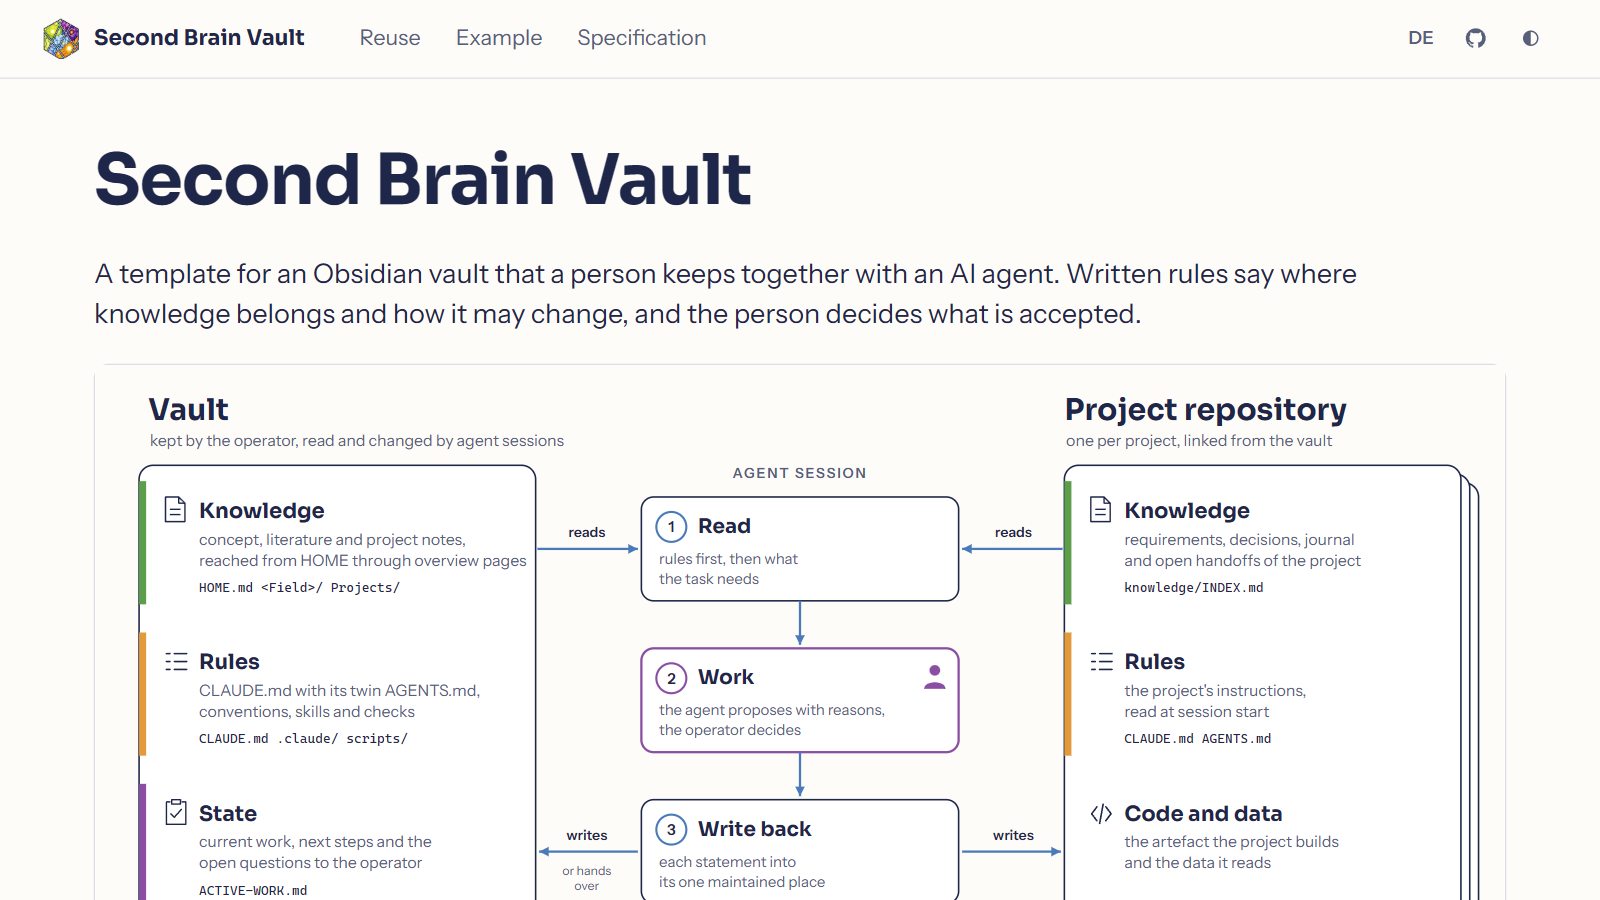
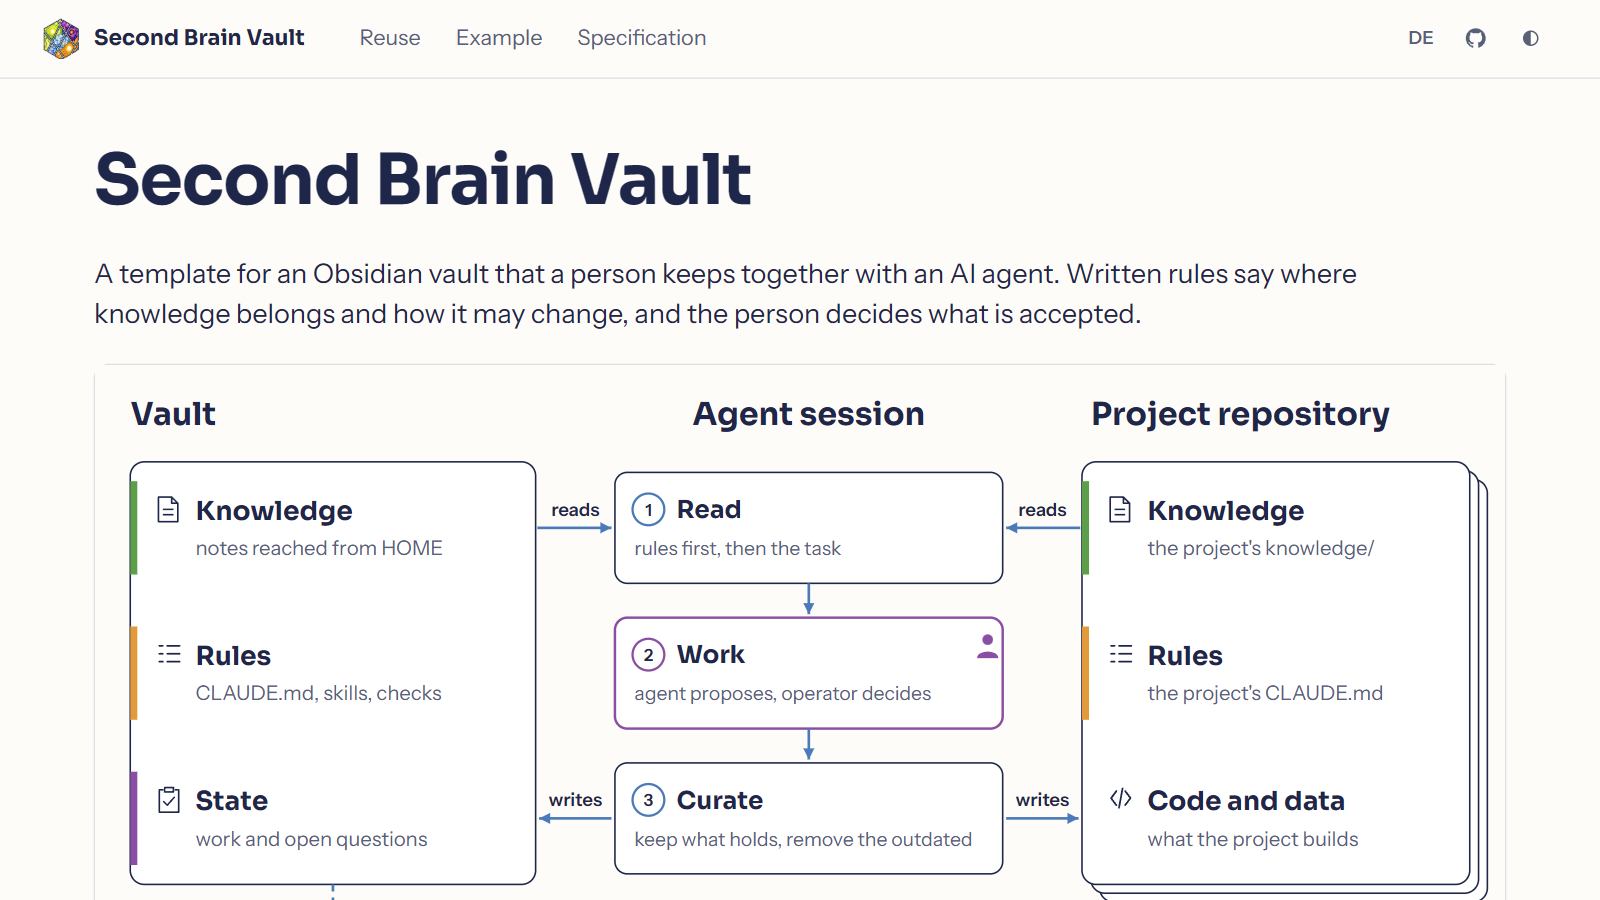
Reduce the main figure to titles and one line per block, add a German version and name the closing step curate

Changed region(s): [[0.0625, 0.4356, 0.9375, 1.0], [0.6562, 0.4356, 0.9062, 0.5289], [0.9062, 0.5289, 0.9375, 0.56]]

diff --git a/docs/content.js b/docs/content.js
@@ -17,9 +17,10 @@ export const PAGE_DE = {
   "head.repo": "Repository auf GitHub",
   "intro.abstract": "Eine Vorlage für einen Obsidian-Vault, den eine Person gemeinsam mit einem KI-Agenten führt. Geschriebene Regeln sagen, wohin Wissen gehört und wie es sich ändern darf, und die Person entscheidet, was angenommen wird.",
   "figure.label": "Hauptgrafik",
-  "figure.alt": "Der Vault hält Wissen, Regeln und Stand. Eine Agentensitzung liest aus dem Vault und aus einem Projekt-Repository, arbeitet, während der Operator entscheidet, und schreibt zurück. Ein Projekt-Repository hält eigenes Wissen, eigene Regeln, Code und Daten, und das Repo Directory verbindet beide. Die Beschriftung der Grafik ist englisch.",
-  "intro.p1": `Der Vault ist ein Ordner verlinkter Markdown-Notizen, den der Operator, die Person, die ihn führt, mit einem KI-Agenten in <a href="https://obsidian.md">Obsidian</a> pflegt. Sein Wissen besteht aus Begriffs-, Literatur- und Projektnotizen, jede Aussage an einem Ort und von HOME aus erreichbar. Seine Regeln beginnen mit <a href="${GH}/blob/main/CLAUDE.md">CLAUDE.md</a> und der daraus erzeugten AGENTS.md und setzen sich in Konventionen, <a href="${GH}/tree/main/.claude/skills">Skills</a> für wiederkehrende Arbeit und Prüfungen fort, die einen Commit gegen eine harte Regel ablehnen. Sein Stand ist ACTIVE-WORK, der eine Ort für laufende Arbeit und die offenen Fragen an den Operator.`,
-  "intro.p2": `Eine Agentensitzung liest zuerst die Regeln und dann, was die Aufgabe braucht, arbeitet, indem der Agent mit Gründen vorschlägt und der Operator entscheidet, und schreibt jede Aussage an ihren einen Ort zurück. Ein Projekt-Repository hält sein eigenes Wissen im Ordner <code>knowledge/</code>, wie <a href="https://github.com/DigitalHumanitiesCraft/Promptotyping">Promptotyping</a> es beschreibt, und das Repo Directory verbindet jede Projektübersicht des Vaults damit. Eine Sitzung im Repository liest den Vault, ohne in ihn zu schreiben, und übergibt einen Befund für den Vault, den eine Vault-Sitzung nach der Annahme einträgt.`,
+  "figure.src": "images/second-brain-figure-de.svg",
+  "figure.alt": "Der Vault hält Wissen, Regeln und Stand. Eine Agentensitzung liest aus dem Vault und aus einem Projekt-Repository, arbeitet, indem der Agent vorschlägt und der Operator entscheidet, und kuratiert. Ein Projekt-Repository hält eigenes Wissen, eigene Regeln, Code und Daten, und das Repo Directory verbindet jedes Projekt mit seinem Wissensordner.",
+  "intro.p1": `Der Vault ist ein Ordner verlinkter Markdown-Notizen, den der Operator, die Person, die ihn führt, mit einem KI-Agenten in <a href="https://obsidian.md">Obsidian</a> pflegt. Sein Wissen besteht aus Begriffs-, Literatur- und Projektnotizen, jede Aussage an einem Ort und von HOME.md aus erreichbar. Seine Regeln beginnen mit <a href="${GH}/blob/main/CLAUDE.md">CLAUDE.md</a> und der daraus erzeugten AGENTS.md und setzen sich in Konventionen, <a href="${GH}/tree/main/.claude/skills">Skills</a> für wiederkehrende Arbeit und Prüfungen fort, die einen Commit gegen eine harte Regel ablehnen. Sein Stand ist ACTIVE-WORK.md, der eine Ort für laufende Arbeit und die offenen Fragen an den Operator.`,
+  "intro.p2": `Eine Agentensitzung liest zuerst die Regeln und dann, was die Aufgabe braucht, arbeitet, indem der Agent mit Gründen vorschlägt und der Operator entscheidet, und kuratiert. Kuratieren hält angenommenes Wissen an dem einen Ort fest, an dem es gilt, berichtigt oder entfernt Aussagen, die überholt sind, und lässt, was nur für ein Projekt gilt, in diesem Projekt. Ein Projekt-Repository hält sein eigenes Wissen im Ordner <code>knowledge/</code>, erreichbar über <code>knowledge/INDEX.md</code>, wie <a href="https://github.com/DigitalHumanitiesCraft/Promptotyping">Promptotyping</a> es beschreibt, und das Repo Directory verbindet jede Projektübersicht des Vaults damit. Eine Sitzung im Repository liest den Vault, ohne in ihn zu schreiben, und übergibt einen Befund für den Vault, den eine Vault-Sitzung nach der Annahme einträgt.`,
   "intro.p3": `Die Vorlage abstrahiert die Struktur des eigenen Forschungs-Vaults des Autors und enthält nur synthetische Notizen. Das Manuskript <a href="${GH}/blob/main/knowledge/paper.md">Second Brain as a Personal Research Environment for Working with AI Agents</a> entwickelt den Ansatz, <a href="https://github.com/DigitalHumanitiesCraft/research-mission-control">Research Mission Control</a> koordiniert mehrere solcher Sitzungen, und <a href="https://github.com/DigitalHumanitiesCraft/grounded-vault">Grounded Vault</a> führt Aussagen bis zur genauen Quellstelle zurück.`,
   "reuse.title": "Nachnutzen",
   "reuse.needs": "Nötig sind Obsidian, Claude Code oder Codex mit bezahltem Plan oder Konto, Git und Python ab 3.11.",

diff --git a/docs/index.html b/docs/index.html
@@ -48,11 +48,11 @@
   <h1>Second Brain Vault</h1>
   <p class="lead" data-t="intro.abstract">A template for an Obsidian vault that a person keeps together with an AI agent. Written rules say where knowledge belongs and how it may change, and the person decides what is accepted.</p>
   <figure class="main-figure" tabindex="0" aria-label="Main figure" data-t-label="figure.label">
-    <img src="images/second-brain-figure.svg" width="1600" height="760" data-t-alt="figure.alt" alt="The vault holds knowledge, rules and state. An agent session reads from the vault and from a project repository, works with the operator deciding, and writes back. A project repository holds its own knowledge, rules, code and data, and the Repo Directory links the two.">
+    <img src="images/second-brain-figure.svg" data-t-src="figure.src" width="1600" height="700" data-t-alt="figure.alt" alt="The vault holds knowledge, rules and state. An agent session reads from the vault and from a project repository, works with the agent proposing and the operator deciding, and curates. A project repository holds its own knowledge, rules, code and data, and the Repo Directory links each project to its knowledge folder.">
   </figure>
   <div class="prose-intro">
-    <p data-t="intro.p1">The vault is a folder of linked Markdown notes that the operator, the person who keeps it, maintains with an AI agent in <a href="https://obsidian.md">Obsidian</a>. Its knowledge consists of concept, literature and project notes, each statement in one place and reachable from HOME. Its rules begin with <a href="https://github.com/chpollin/second-brain-vault/blob/main/CLAUDE.md">CLAUDE.md</a> and the generated AGENTS.md, and go on in conventions, <a href="https://github.com/chpollin/second-brain-vault/tree/main/.claude/skills">skills</a> for recurring work and checks that refuse a commit breaking a hard rule. Its state is ACTIVE-WORK, the one place for current work and the open questions to the operator.</p>
-    <p data-t="intro.p2">An agent session reads the rules first and then what the task needs, works by proposing with reasons while the operator decides, and writes each statement back into its one place. A project repository keeps its own knowledge in the folder <code>knowledge/</code>, as <a href="https://github.com/DigitalHumanitiesCraft/Promptotyping">Promptotyping</a> describes, and the Repo Directory links each Project Overview of the vault to it. A session in a repository reads the vault without writing to it and hands over a finding for the vault, which a vault session enters once it is accepted.</p>
+    <p data-t="intro.p1">The vault is a folder of linked Markdown notes that the operator, the person who keeps it, maintains with an AI agent in <a href="https://obsidian.md">Obsidian</a>. Its knowledge consists of concept, literature and project notes, each statement in one place and reachable from HOME.md. Its rules begin with <a href="https://github.com/chpollin/second-brain-vault/blob/main/CLAUDE.md">CLAUDE.md</a> and the generated AGENTS.md, and go on in conventions, <a href="https://github.com/chpollin/second-brain-vault/tree/main/.claude/skills">skills</a> for recurring work and checks that refuse a commit breaking a hard rule. Its state is ACTIVE-WORK.md, the one place for current work and the open questions to the operator.</p>
+    <p data-t="intro.p2">An agent session reads the rules first and then what the task needs, works by proposing with reasons while the operator decides, and curates. Curating keeps accepted knowledge in the one place where it applies, corrects or removes statements that have become outdated, and leaves what holds for one project in that project. A project repository keeps its own knowledge in the folder <code>knowledge/</code>, entered through <code>knowledge/INDEX.md</code> as <a href="https://github.com/DigitalHumanitiesCraft/Promptotyping">Promptotyping</a> describes, and the Repo Directory links each Project Overview of the vault to it. A session in a repository reads the vault without writing to it and hands a finding for the vault over, which a vault session enters once it is accepted.</p>
     <p data-t="intro.p3">The template abstracts the structure of the author's own research vault and contains only synthetic notes. The manuscript <a href="https://github.com/chpollin/second-brain-vault/blob/main/knowledge/paper.md">Second Brain as a Personal Research Environment for Working with AI Agents</a> develops the approach, <a href="https://github.com/DigitalHumanitiesCraft/research-mission-control">Research Mission Control</a> coordinates several such sessions, and <a href="https://github.com/DigitalHumanitiesCraft/grounded-vault">Grounded Vault</a> traces claims to an exact source passage.</p>
   </div>
 </section>

diff --git a/docs/page.js b/docs/page.js
@@ -43,6 +43,9 @@ function translate() {
   for (const node of document.querySelectorAll("[data-t-label]")) {
     if (node.dataset.tLabel in PAGE_DE) node.setAttribute("aria-label", PAGE_DE[node.dataset.tLabel]);
   }
+  for (const node of document.querySelectorAll("[data-t-src]")) {
+    if (node.dataset.tSrc in PAGE_DE) node.setAttribute("src", PAGE_DE[node.dataset.tSrc]);
+  }
   for (const node of document.querySelectorAll("[data-t-alt]")) {
     if (node.dataset.tAlt in PAGE_DE) node.setAttribute("alt", PAGE_DE[node.dataset.tAlt]);
   }

diff --git a/VAULT-OPERATIONS.md b/VAULT-OPERATIONS.md
@@ -37,7 +37,7 @@ query-topics: [vault-operations, skill-register, glossary, decisions, task-types
 | vault-audit | on call | reports dead links, dead anchors and unreachable documents | `scripts/check_vault.py` |
 | vault-distill | on call | synthesises vault content into an outline, slide input or draft prose and edits nothing | [[HOME]] |
 | vault-orient | on call, outside the vault | opens the vault as a read-only knowledge source for a repository session | [[HOME]], [[Repo Directory]] |
-| project-knowledge | in a repository with a `knowledge/` folder | works from and writes back into the knowledge base of a repository | [[Convention Knowledge Documents]] |
+| project-knowledge | in a repository with a `knowledge/` folder | works from and curates the knowledge base of a repository | [[Convention Knowledge Documents]] |
 | active-work-report | on call | reports the operational state and proposes changes, writes only on instruction | [[Convention ACTIVE-WORK Fields]] |
 | writing-style | before prose is written | prose rules with contrast examples and a self-check | `.claude/rules/documents.md` |
 | persona-init | when a personal profile is requested | builds a readable profile, a working agreement and source provenance through a short dialogue | [[Template Research Persona]] |
@@ -77,6 +77,7 @@ Project knowledge base
 
 | Date | Decision | Reason and history |
 |---|---|---|
+| 2026-11-10 | The closing step of a session is curation: accepted knowledge at the level where it applies, outdated statements corrected or removed | [[Decision Log#2026-11-10 Curation as the closing step of a session]] |
 | 2026-09-20 | Project context follows explicit repository mappings and preserves the scope of transferred findings | [[Decision Log#2026-09-20 Research context across repositories]] |
 | 2026-09-19 | Persona initialisation uses a neutral template and stores personal drafts outside the public explorer | [[Decision Log#2026-09-19 Personal research persona initialisation]] |
 | 2026-09-19 | Skills preserve read-only entry, honor existing update instructions and keep expected test outcomes distinct from observed evidence | [[Decision Log#2026-09-19 Skill evaluation and bounded execution]] |

diff --git a/knowledge/design.md b/knowledge/design.md
@@ -19,7 +19,7 @@ The header carries brand, Reuse, Example and Specification, the language link, t
 
 ## Main figure
 
-The figure is a hand-drawn SVG of 1600 by 760 units with Sora and Instrument Sans embedded as data URIs, so it keeps its type inside `<img>`, in a paper and on a slide. `docs/images/second-brain-figure.png` is its export at double resolution through headless Edge. It stands on a light plate in both schemes. On phones it keeps a legible width and scrolls sideways inside its frame.
+The figure is a hand-drawn SVG of 1600 by 700 units, in English as `docs/images/second-brain-figure.svg` and in German as `second-brain-figure-de.svg`, which the German page loads with Sora and Instrument Sans embedded as data URIs, so it keeps its type inside `<img>`, in a paper and on a slide. Both are exported as PNG at double resolution through headless Edge. Each block carries a title and one line, the columns carry their names only, and every label stays legible at 800 pixels width. File names stand in the prose below the figure. The third step of the session is called curate, because writing back names only the mechanical part. It stands on a light plate in both schemes. On phones it keeps a legible width and scrolls sideways inside its frame.
 
 The vault, the agent session and the project repository take three balanced columns. Knowledge, rules and state fill the vault without empty space, and the repository mirrors knowledge and rules and adds code and data. The colours follow the mark and the roles the Research Mission Control infographic already assigned: blue for reading and writing files, purple for work, decisions and acceptance, which also marks state as the place of the operator's open questions, green for knowledge and orange for rules in both vault and repository. Every colour carries a text label and an icon. Green and orange come close for protanopia, and purple and blue for both red-green deficiencies; the labels, icons and the different shapes (bars, boxes, arrows) carry the distinction. Orange reaches 2.3:1 on paper and serves only as a supplementary bar.
 

diff --git a/Vault Operations/Conventions/Convention Knowledge Documents.md b/Vault Operations/Conventions/Convention Knowledge Documents.md
@@ -42,7 +42,7 @@ Documents are created by function, not from a fixed checklist. Every knowledge b
 1. Let the task determine the project and question. Resolve the repository through [[Repo Directory]] and read its linked Project Overview for conceptual context. For a session already in a repository, verify the mapping against that checkout.
 2. Read the repository's applicable instructions, including explicitly referenced local supplements, then `knowledge/INDEX.md`, open input in `handoff.md` when relevant, and the selected documents. Where there is no index, use the action layer's documented entry. Read `journal.md` when the ground of a decision or a revision is needed.
 3. Verify mutable claims against the relevant code, data or recorded decision. Record the inspected revision or data state when it affects the finding. A current checkout can establish implementation behaviour, while a specification establishes intended behaviour. Preserve a conflict between them until its cause is checked.
-4. Write back only within the authorised scope. A durable finding goes into the document responsible for it, authorised restatements are brought into step, and an implemented change gets one short journal entry. A read-only task returns the finding and its proposed destination in the conversation.
+4. Curate only within the authorised scope. A durable finding goes into the document responsible for it at the level where it applies, statements that have become outdated or unwarranted are corrected or removed, authorised restatements are brought into step, and an implemented change gets one short journal entry. A read-only task returns the finding and its proposed destination in the conversation.
 
 ## Ownership and transfer
 

diff --git a/knowledge/journal.md b/knowledge/journal.md
@@ -1,5 +1,9 @@
 # Journal
 
+## 2026-11-10 Main figure reduced and the closing step named curate
+
+On the owner's review the figure keeps its three columns, colours and icons but shows each block as a title and one line, without sublines, file rows or a two-line link label, and stays legible at 800 pixels. A German version was added. The closing step of a session is now called curate in figure, page, Convention Knowledge Documents and the register of skills, recorded in the Decision Log.
+
 ## 2026-11-10 Method page after the owner's review
 
 The owner chose the Promptotyping start page as the reference and recorded the decisions in brand-assets `web/design.md`. The page now opens light with a dark toggle, starts with title, abstract and a standalone SVG figure of vault, agent session and project repository in the colours of the mark, explains the figure in three paragraphs of prose, sets the take-away files apart, and keeps the seven-prompt demo, which was run in full on a fresh clone and improved in three prompts. Details, colour roles and the demo run are in [design](design.md#main-figure). The figure is also exported as PNG at double resolution under `docs/images/`.

diff --git a/Vault Operations/Decision Log.md b/Vault Operations/Decision Log.md
@@ -8,6 +8,10 @@ query-topics: [decision-log, rule-history, reasons]
 
 The history and the reasons of the rules, newest first. The rules themselves stand in [[CLAUDE]], in `.claude/rules/` and in the conventions. The decisions in force are registered in [[VAULT-OPERATIONS#Decisions in force]].
 
+## 2026-11-10 Curation as the closing step of a session
+
+Following the owner's terminology for all his methods, the closing step of an agent session is called curation instead of writing back. Writing back names only the mechanical part. Curation records accepted knowledge at the level where it applies, corrects or removes statements that have become outdated or unwarranted, and keeps what holds for one project in that project. [[Convention Knowledge Documents#Working from the knowledge base]] step 4 and the gloss of `project-knowledge` in [[VAULT-OPERATIONS]] now use the term.
+
 ## 2026-09-20 Research context across repositories
 
 The operator approved Second Brain as a personal research environment for working with AI
